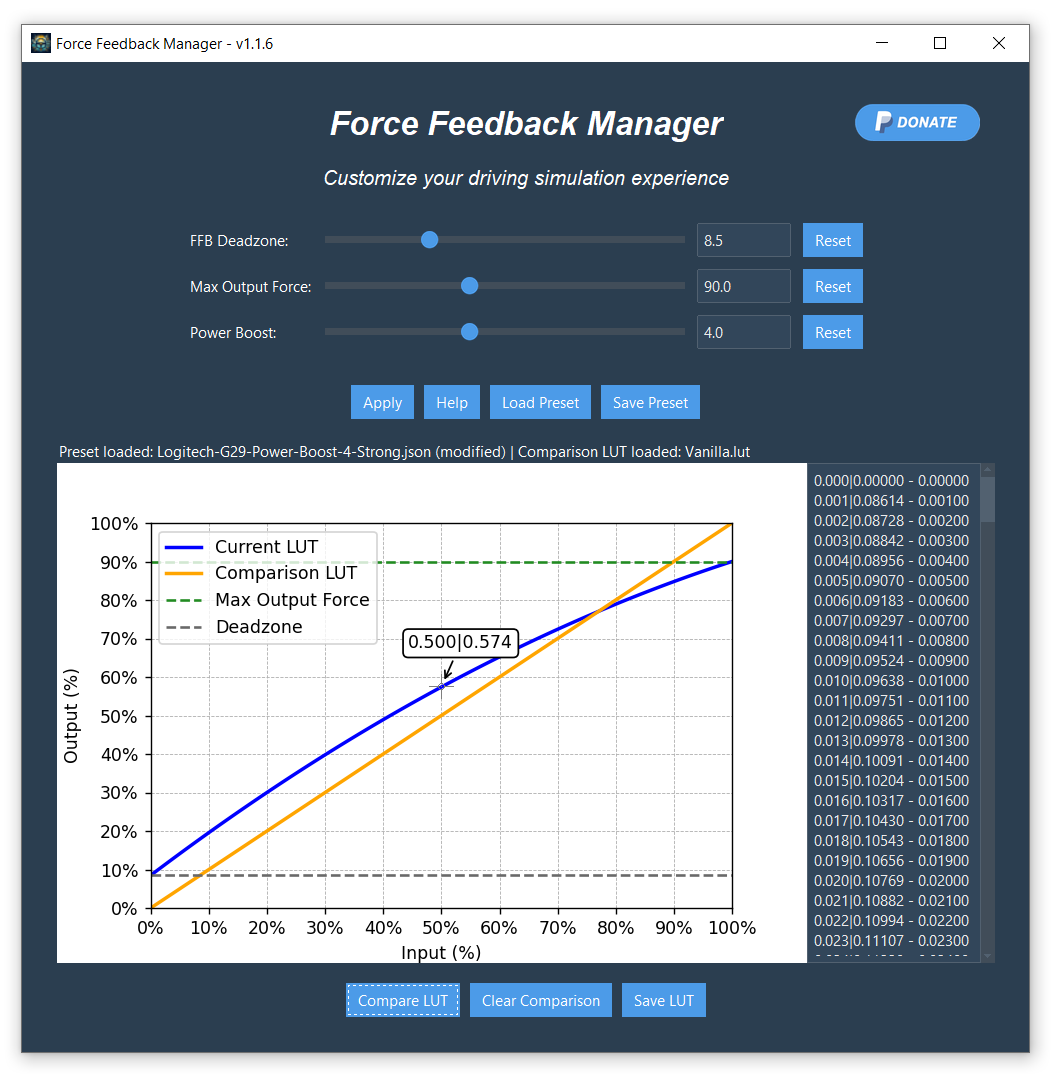
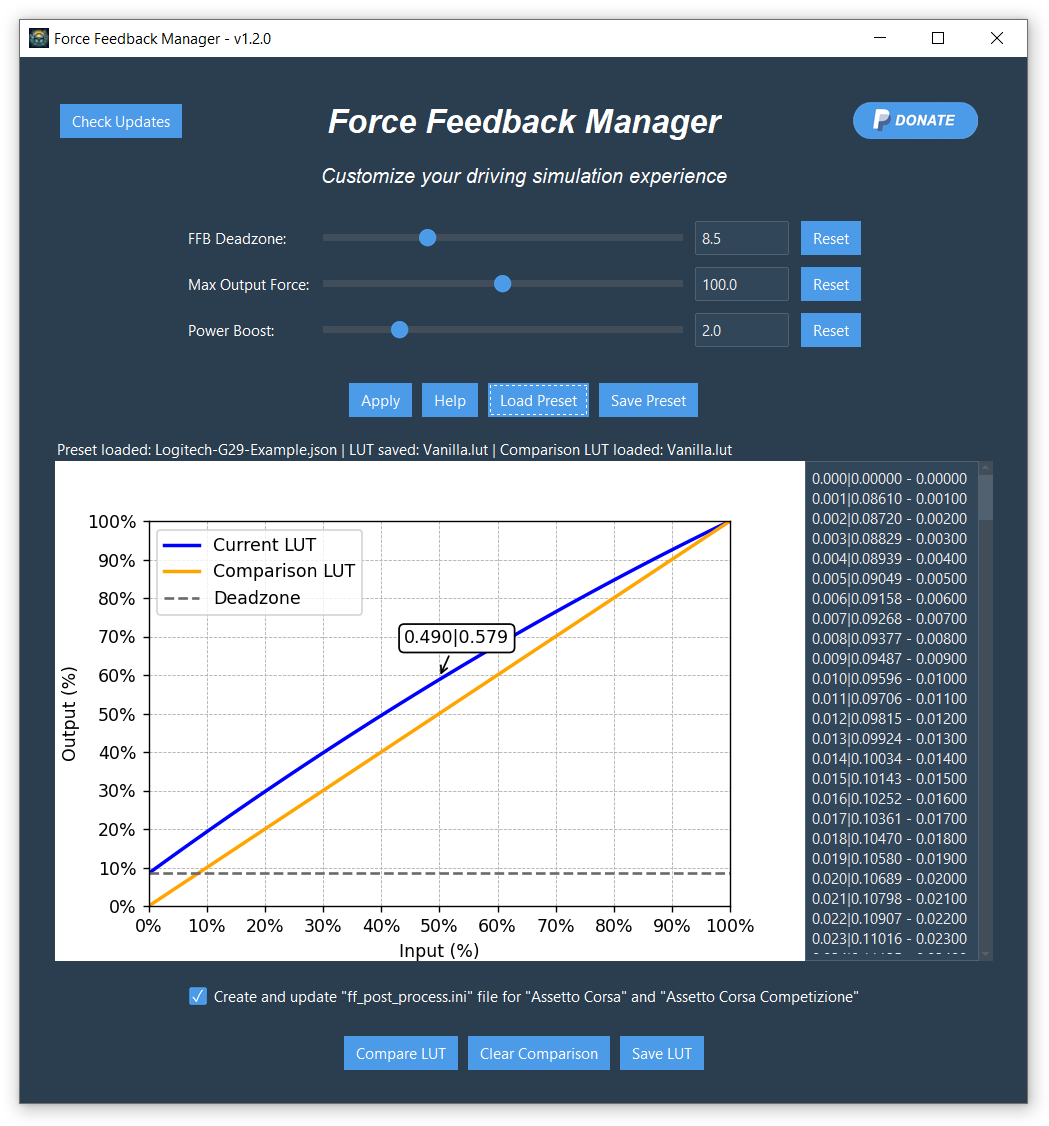
implemented automatic lut file replacement

diff --git a/src/ForceFeedbackManager.py b/src/ForceFeedbackManager.py
@@ -5,6 +5,7 @@ import sys
 import webbrowser
 import requests
 import tkinter as tk
+import shutil
 
 from tkinter import filedialog
 from tkinter import ttk
@@ -79,22 +80,30 @@ def limit_value(value, min, max):
 
 
 class ForceFeedbackManagerApp:
+    SETTING_FILE = "AppSettings.json"
 
     def __init__(self, root):
         """Initialize the application."""
         self.root = root
-        self.version = "v1.1.9"
+        self.version = "v1.2.0"
         self.title_string = "Force Feedback Manager - " + self.version
         self.root.title(self.title_string)
         self.compare_lut = None
         self.compare_lut_modified = False
-        self.loaded_preset_name = None
-        self.saved_lut_name = None
+        self.preset_path = None
+        self.preset_name = None
+        self.lut_path = None
+        self.lut_name = None
         self.compare_lut_name = None
+        self.initial_deadzone_value = 0.0
+        self.initial_max_output_value = 100.0
+        self.initial_power_boost_value = 0.0
+        self.initial_create_AC_file = True
 
         print(self.title_string)
 
         self.load_donation_image()
+        self.read_app_settings()
         
         # Create main frame
         lateral_padding = 30
@@ -121,9 +130,10 @@ class ForceFeedbackManagerApp:
         row += 1
 
         # Initialize variables for sliders
-        self.deadzone_value = tk.DoubleVar()
-        self.max_output_value = tk.DoubleVar(value=100.0)
-        self.power_boost_value = tk.DoubleVar(value=0.0)
+        self.deadzone_value = tk.DoubleVar(value=self.initial_deadzone_value)
+        self.max_output_value = tk.DoubleVar(value=self.initial_max_output_value)
+        self.power_boost_value = tk.DoubleVar(value=self.initial_power_boost_value)
+        self.create_ac_file = tk.BooleanVar(value=self.initial_create_AC_file)
 
         # Initialize limiters for values
         self.deadzone_min = 0.0
@@ -183,9 +193,18 @@ class ForceFeedbackManagerApp:
         self.scrollbar.pack(side=tk.RIGHT, fill=tk.Y)
         self.combined_output.config(yscrollcommand=self.scrollbar.set)
 
+        # Create checkbox for ff_post_process file
+        create_ac_checkbox = ttk.Checkbutton(
+            mainframe,
+            text='Create and update "ff_post_process.ini" file for "Assetto Corsa" and "Assetto Corsa Competizione"',
+            variable=self.create_ac_file
+        )
+        create_ac_checkbox.grid(row=row, column=0, columnspan=3, pady=(25,15))
+        row += 1
+
         # Frame to hold the buttons
         final_button_frame = ttk.Frame(mainframe)
-        final_button_frame.grid(row=row, column=0, columnspan=3, pady=20)
+        final_button_frame.grid(row=row, column=0, columnspan=3, pady=15)
 
         # Compare button
         compare_button = ttk.Button(final_button_frame, text="Compare LUT", command=self.load_compare_lut)
@@ -221,6 +240,41 @@ class ForceFeedbackManagerApp:
 
         # Update check
         self.root.after(1000, lambda: self.check_version(show_up_to_date=False))
+
+    def read_app_settings(self):
+        if not os.path.exists(self.SETTING_FILE):
+            print("Settings file not found. Using defaults.")
+            return
+
+        try:
+            with open(self.SETTING_FILE, 'r') as f:
+                settings = json.load(f)
+                self.initial_deadzone_value = settings.get("deadzone")
+                self.initial_max_output_value = settings.get("max_output")
+                self.initial_power_boost_value = settings.get("power_boost")
+                self.create_ac_file = settings.get("create_ac_file")
+                self.lut_path = settings.get("last_lut_path")
+                self.lut_name = settings.get("last_lut_name")
+                print("App settings loaded.")
+        except Exception as e:
+            print(f"Error reading settings file: {e}")
+
+    def update_app_settings(self):
+        settings = {
+            "deadzone": self.deadzone_value.get(),
+            "max_output": self.max_output_value.get(),
+            "power_boost": self.power_boost_value.get(),
+            "create_ac_file": self.create_ac_file.get(),
+            "last_lut_path": self.lut_path,
+            "last_lut_name": self.lut_name
+        }
+
+        try:
+            with open(self.SETTING_FILE, 'w') as f:
+                json.dump(settings, f, indent=4)
+                print("Settings successfully saved.")
+        except Exception as e:
+            print(f"Error writing settings file: {e}")
 
     def check_version(self, show_up_to_date=True):
         latest = self.get_latest_release()
@@ -304,11 +358,11 @@ class ForceFeedbackManagerApp:
     def update_status_label(self):
         """Update the status label with loaded preset, saved LUT, and compare LUT names."""
         status_parts = []
-        if self.loaded_preset_name:
+        if self.preset_name:
             modified_text = " (modified)" if self.is_preset_modified() else ""
-            status_parts.append(f"Preset loaded: {self.loaded_preset_name}{modified_text}")
-        if self.saved_lut_name:
-            status_parts.append(f"LUT saved: {self.saved_lut_name}")
+            status_parts.append(f"Preset loaded: {self.preset_name}{modified_text}")
+        if self.lut_name:
+            status_parts.append(f"LUT saved: {self.lut_name}")
         if self.compare_lut_name:
             status_parts.append(f"Comparison LUT loaded: {self.compare_lut_name}")
         status_text = " | ".join(status_parts) if status_parts else "Adjust FFB Deadzone, Max Output Force, and Power Boost, then click Apply."
@@ -381,24 +435,29 @@ class ForceFeedbackManagerApp:
         if file_path:
             with open(file_path, "w") as file:
                 json.dump(preset, file)
-            self.saved_lut_name = os.path.basename(file_path)
+            self.preset_path = file_path
+            self.preset_name = os.path.basename(file_path)
             self.update_status_label()
 
     def load_preset(self):
         """Load slider values from a preset file."""
         file_path = filedialog.askopenfilename(initialdir="./presets", filetypes=[("JSON files", "*.json"), ("All files", "*.*")])
         if file_path:
-            with open(file_path, "r") as file:
-                preset = json.load(file)
-                self.deadzone_value.set(preset["deadzone"])
-                self.max_output_value.set(preset["max_output"])
-                self.power_boost_value.set(preset["power_boost"])
+            self.load_preset_file(file_path)
+
+    def load_preset_file(self, file_path):
+        with open(file_path, "r") as file:
+            preset = json.load(file)
+            self.deadzone_value.set(preset["deadzone"])
+            self.max_output_value.set(preset["max_output"])
+            self.power_boost_value.set(preset["power_boost"])
                 # Save initial values
-                self.initial_deadzone_value = preset["deadzone"]
-                self.initial_max_output_value = preset["max_output"]
-                self.initial_power_boost_value = preset["power_boost"]
-            self.loaded_preset_name = os.path.basename(file_path)
-            self.apply_correction()
+            self.initial_deadzone_value = preset["deadzone"]
+            self.initial_max_output_value = preset["max_output"]
+            self.initial_power_boost_value = preset["power_boost"]
+        self.preset_path = file_path
+        self.preset_name = os.path.basename(file_path)
+        self.apply_correction()
 
     def center_popup(self, popup):
         """Center the given popup window on the root window."""
@@ -621,17 +680,51 @@ class ForceFeedbackManagerApp:
         lut_content = ["0.000|0.00000"]  # First value
         lut_content += [f"{x:.3f}|{y:.5f}" for x, y in self.lut.points if x != 0.000]
 
-        file_path = filedialog.asksaveasfilename(defaultextension=".lut", filetypes=[("LUT files", "*.lut"), ("All files", "*.*")])
+        file_path = filedialog.asksaveasfilename(initialdir=self.lut_path, initialfile=self.lut_name, defaultextension=".lut", filetypes=[("LUT files", "*.lut"), ("All files", "*.*")])
         if file_path:
             with open(file_path, "w") as file:
                 file.write("\n".join(lut_content))
-            self.saved_lut_name = os.path.basename(file_path)
+            self.lut_path = os.path.dirname(file_path)
+            self.lut_name = os.path.basename(file_path)
+            self.update_ff_post_process_ini()
             self.update_status_label()
             self.show_donation_popup()
+            self.update_app_settings()
+
+    def update_ff_post_process_ini(self):
+        ini_content = f"""[HEADER]
+VERSION=1
+TYPE=LUT
+ENABLED=1
+
+[GAMMA]
+VALUE=1
+
+[LUT]
+CURVE={self.lut_name}
+"""
+
+        ini_path = os.path.join(self.lut_path, "ff_post_process.ini")
+        backup_path = os.path.join(self.lut_path, "ff_post_process_backup.ini")
+
+        # create a backup file
+        if not os.path.exists(backup_path) and os.path.exists(ini_path):
+            try:
+                shutil.copyfile(ini_path, backup_path)
+                print(f"Backup created at: {backup_path}")
+            except Exception as e:
+                print(f"Error creating backup: {e}")
+        else:
+            print("Backup already exists. No action taken.")
+
+        # update the .ini file
+        with open(ini_path, "w") as f:
+            f.write(ini_content)
+        print(f"INI file created at: {ini_path}")
 
     def load_compare_lut(self):
         """Load and display a LUT file for comparison."""
-        file_path = filedialog.askopenfilename(defaultextension=".lut", filetypes=[("LUT files", "*.lut"), ("All files", "*.*")])
+        file_path = filedialog.askopenfilename(initialdir=self.lut_path, initialfile=self.lut_name, defaultextension=".lut", filetypes=[("LUT files", "*.lut"), ("All files", "*.*")])
         if file_path:
             self.compare_lut = Lut()
             with open(file_path, "r") as file:
@@ -644,7 +737,7 @@ class ForceFeedbackManagerApp:
 
     def is_preset_modified(self):
         """Check if the current preset values have been modified."""
-        return (self.loaded_preset_name and (
+        return (self.preset_name and (
             self.deadzone_value.get() != self.initial_deadzone_value or
             self.max_output_value.get() != self.initial_max_output_value or
             self.power_boost_value.get() != self.initial_power_boost_value))
